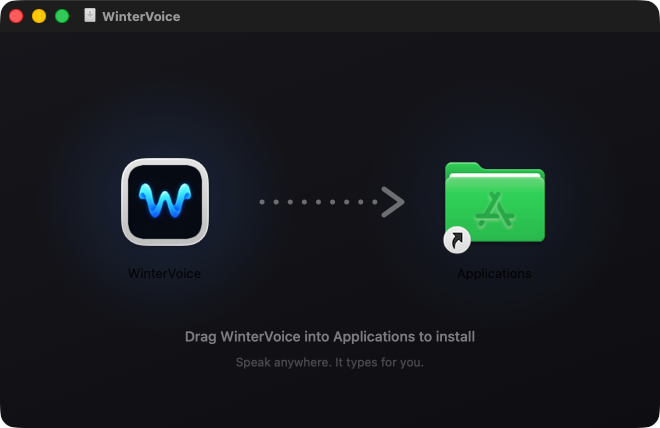
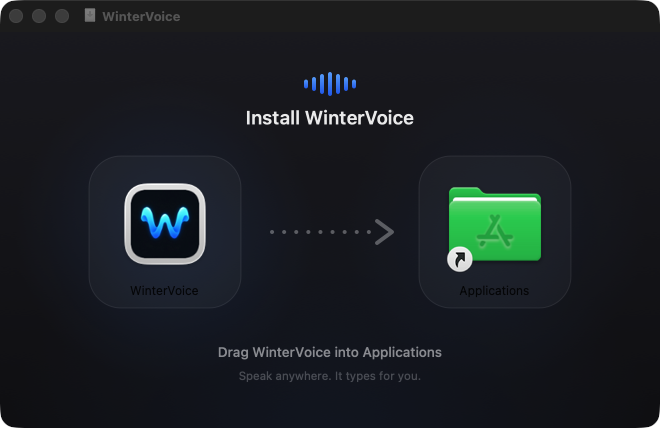
Redesign the dmg installer background
The installer now reads as a product screen: blue waveform brand mark
and "Install WinterVoice" title up top, rounded well plates seating the
app icon and Applications folder, a dotted drag arrow between them, and
captions below. Wells also frame the macOS icon plate so the dark
artwork no longer floats on a flat background.

diff --git a/scripts/render-dmg-background.swift b/scripts/render-dmg-background.swift
@@ -13,13 +13,11 @@ let outputURL = URL(fileURLWithPath: arguments[1])
 
 let pointSize = NSSize(width: 660, height: 400)
 let scale: CGFloat = 2
-let pixelWide = Int(pointSize.width * scale)
-let pixelHigh = Int(pointSize.height * scale)
 
 guard let rep = NSBitmapImageRep(
     bitmapDataPlanes: nil,
-    pixelsWide: pixelWide,
-    pixelsHigh: pixelHigh,
+    pixelsWide: Int(pointSize.width * scale),
+    pixelsHigh: Int(pointSize.height * scale),
     bitsPerSample: 8,
     samplesPerPixel: 4,
     hasAlpha: true,
@@ -32,8 +30,7 @@ guard let rep = NSBitmapImageRep(
 NSGraphicsContext.saveGraphicsState()
 let context = NSGraphicsContext(bitmapImageRep: rep)!
 NSGraphicsContext.current = context
-let cg = context.cgContext
-cg.scaleBy(x: scale, y: scale)
+context.cgContext.scaleBy(x: scale, y: scale)
 
 func color(_ hex: UInt32, _ alpha: CGFloat = 1) -> NSColor {
     NSColor(
@@ -44,60 +41,109 @@ func color(_ hex: UInt32, _ alpha: CGFloat = 1) -> NSColor {
     )
 }
 
-// Canvas: the app's dark gradient.
-let bounds = NSRect(origin: .zero, size: pointSize)
-NSGradient(colors: [color(0x16161B), color(0x0E0E12)])!
-    .draw(in: bounds, angle: -70)
+// AppKit coordinates: origin bottom-left. Design positions are given from
+// the window top, so convert through `fromTop`.
+func fromTop(_ y: CGFloat) -> CGFloat { pointSize.height - y }
 
-// Soft brand-blue glows behind each icon well so the drop targets read
-// as two lit "slots" (AppKit coordinates: origin bottom-left, so the
-// icon row sits at y ≈ 230 for a row placed 170pt from the top).
-let iconRowY: CGFloat = 230
-for glowX: CGFloat in [165, 495] {
-    let glow = NSGradient(
-        starting: color(0x3B82F6, glowX == 165 ? 0.16 : 0.10),
-        ending: color(0x3B82F6, 0)
-    )!
-    glow.draw(
-        fromCenter: NSPoint(x: glowX, y: iconRowY), radius: 0,
-        toCenter: NSPoint(x: glowX, y: iconRowY), radius: 130,
-        options: []
+// Canvas gradient with a faint blue bloom rising from the bottom edge.
+let bounds = NSRect(origin: .zero, size: pointSize)
+NSGradient(colors: [color(0x1A1A21), color(0x0C0C10)])!.draw(in: bounds, angle: -90)
+NSGradient(
+    starting: color(0x3B82F6, 0.10), ending: color(0x3B82F6, 0)
+)!.draw(
+    fromCenter: NSPoint(x: pointSize.width / 2, y: -80), radius: 0,
+    toCenter: NSPoint(x: pointSize.width / 2, y: -80), radius: 340,
+    options: []
+)
+
+// Brand waveform mark, top center.
+let waveWeights: [CGFloat] = [0.45, 0.7, 1.0, 1.2, 1.0, 0.7, 0.45]
+let waveMaxHeight: CGFloat = 20
+let waveBarWidth: CGFloat = 4
+let waveSpacing: CGFloat = 4
+let waveTotalWidth = CGFloat(waveWeights.count) * waveBarWidth
+    + CGFloat(waveWeights.count - 1) * waveSpacing
+let waveCenterY = fromTop(52)
+var waveX = (pointSize.width - waveTotalWidth) / 2
+for weight in waveWeights {
+    let barHeight = waveMaxHeight * weight
+    let bar = NSBezierPath(
+        roundedRect: NSRect(
+            x: waveX, y: waveCenterY - barHeight / 2,
+            width: waveBarWidth, height: barHeight
+        ),
+        xRadius: waveBarWidth / 2, yRadius: waveBarWidth / 2
     )
+    NSGradient(colors: [color(0x60A5FA), color(0x2563EB)])!
+        .draw(in: bar, angle: -90)
+    waveX += waveBarWidth + waveSpacing
 }
 
-// Dashed arrow between the two icon wells.
-let arrow = NSBezierPath()
-arrow.move(to: NSPoint(x: 262, y: iconRowY))
-arrow.line(to: NSPoint(x: 384, y: iconRowY))
-arrow.lineWidth = 5
-arrow.lineCapStyle = .round
-arrow.setLineDash([0.1, 14], count: 2, phase: 0)
-color(0xFFFFFF, 0.38).setStroke()
-arrow.stroke()
-
-let head = NSBezierPath()
-head.move(to: NSPoint(x: 384, y: iconRowY + 13))
-head.line(to: NSPoint(x: 402, y: iconRowY))
-head.line(to: NSPoint(x: 384, y: iconRowY - 13))
-head.lineWidth = 5
-head.lineCapStyle = .round
-head.lineJoinStyle = .round
-color(0xFFFFFF, 0.38).setStroke()
-head.stroke()
-
-// Caption under the icon row.
-func drawText(_ string: String, size: CGFloat, weight: NSFont.Weight, alpha: CGFloat, centerY: CGFloat) {
+func drawCenteredText(_ string: String, size: CGFloat, weight: NSFont.Weight, alpha: CGFloat, topY: CGFloat) {
     let attributes: [NSAttributedString.Key: Any] = [
         .font: NSFont.systemFont(ofSize: size, weight: weight),
         .foregroundColor: color(0xFFFFFF, alpha),
+        .kern: weight == .semibold ? 0.2 : 0,
     ]
     let text = NSAttributedString(string: string, attributes: attributes)
     let textSize = text.size()
-    text.draw(at: NSPoint(x: (pointSize.width - textSize.width) / 2, y: centerY - textSize.height / 2))
+    text.draw(at: NSPoint(
+        x: (pointSize.width - textSize.width) / 2,
+        y: fromTop(topY) - textSize.height / 2
+    ))
 }
 
-drawText("Drag WinterVoice into Applications to install", size: 14, weight: .medium, alpha: 0.45, centerY: 96)
-drawText("Speak anywhere. It types for you.", size: 12, weight: .regular, alpha: 0.24, centerY: 70)
+drawCenteredText("Install WinterVoice", size: 19, weight: .semibold, alpha: 0.92, topY: 86)
+
+// Icon wells: rounded plates that seat the app icon and the Applications
+// folder so the drop targets read as intentional slots.
+let wellCenters: [CGFloat] = [165, 495]
+let wellCenterYFromTop: CGFloat = 200
+for (index, centerX) in wellCenters.enumerated() {
+    let well = NSRect(
+        x: centerX - 76, y: fromTop(wellCenterYFromTop) - 76,
+        width: 152, height: 152
+    )
+    let path = NSBezierPath(roundedRect: well, xRadius: 32, yRadius: 32)
+    // Soft blue lift behind the well, stronger on the app side.
+    NSGradient(
+        starting: color(0x3B82F6, index == 0 ? 0.14 : 0.08),
+        ending: color(0x3B82F6, 0)
+    )!.draw(
+        fromCenter: NSPoint(x: centerX, y: fromTop(wellCenterYFromTop)), radius: 0,
+        toCenter: NSPoint(x: centerX, y: fromTop(wellCenterYFromTop)), radius: 150,
+        options: []
+    )
+    color(0xFFFFFF, 0.045).setFill()
+    path.fill()
+    color(0xFFFFFF, 0.10).setStroke()
+    path.lineWidth = 1
+    path.stroke()
+}
+
+// Arrow between the wells.
+let arrowY = fromTop(wellCenterYFromTop)
+let shaft = NSBezierPath()
+shaft.move(to: NSPoint(x: 272, y: arrowY))
+shaft.line(to: NSPoint(x: 376, y: arrowY))
+shaft.lineWidth = 4
+shaft.lineCapStyle = .round
+shaft.setLineDash([0.1, 12], count: 2, phase: 0)
+color(0xFFFFFF, 0.35).setStroke()
+shaft.stroke()
+
+let head = NSBezierPath()
+head.move(to: NSPoint(x: 377, y: arrowY + 11))
+head.line(to: NSPoint(x: 392, y: arrowY))
+head.line(to: NSPoint(x: 377, y: arrowY - 11))
+head.lineWidth = 4
+head.lineCapStyle = .round
+head.lineJoinStyle = .round
+color(0xFFFFFF, 0.35).setStroke()
+head.stroke()
+
+drawCenteredText("Drag WinterVoice into Applications", size: 13.5, weight: .medium, alpha: 0.55, topY: 320)
+drawCenteredText("Speak anywhere. It types for you.", size: 11.5, weight: .regular, alpha: 0.28, topY: 344)
 
 NSGraphicsContext.restoreGraphicsState()
 
